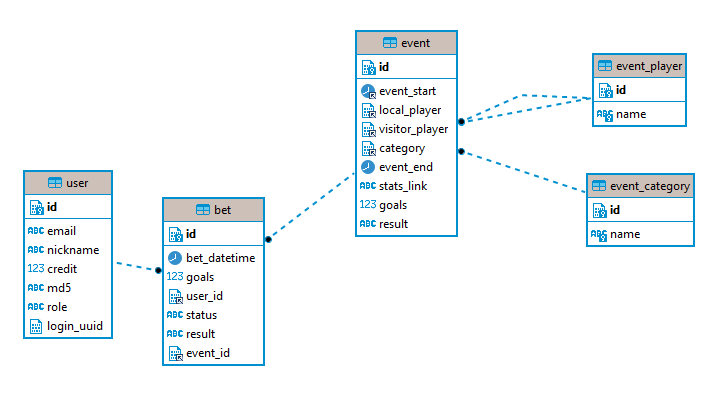
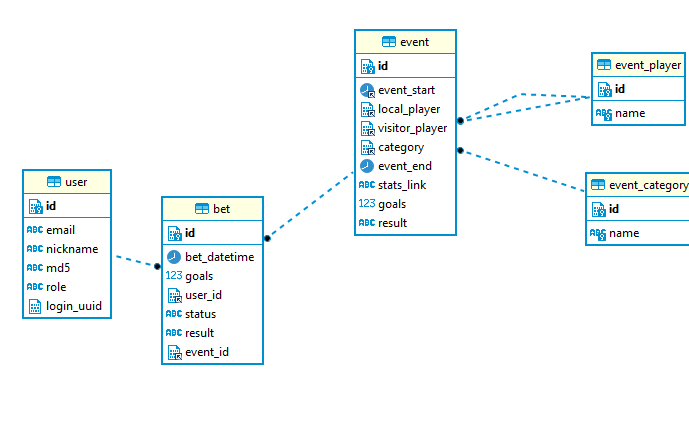
chao campo user/credit

diff --git a/backend/sportsbet_server/controllers/user_controller.py b/backend/sportsbet_server/controllers/user_controller.py
@@ -101,7 +101,6 @@ def update_user(user=None):
         user_schema = UserSchema()
         existing_user.email = user["email"]
         existing_user.nickname = user["nickname"]
-        existing_user.credit = user["credit"]
         existing_user.md5 = user["md5"]
         existing_user.role = user["role"]
         db.session.merge(existing_user)

diff --git a/backend/sportsbet_server/models.py b/backend/sportsbet_server/models.py
@@ -52,7 +52,6 @@ class User(db.Model):
     id = db.Column(UUID, primary_key=True, default=uuid.uuid1() )
     email = db.Column(db.String)
     nickname = db.Column(db.String)
-    credit = db.Column(db.Numeric)
     md5 = db.Column(db.String)
     role = db.Column(db.String)
     login_uuid = db.Column(UUID)

diff --git a/backend/sportsbet_server/controllers/bet_controller.py b/backend/sportsbet_server/controllers/bet_controller.py
@@ -43,3 +43,9 @@ def get_bet_by_id(id_):
         return make_response(data, 200)
     else:
         return make_response(404, f"Bet not found for id: {id_}")
+
+def get_bets():
+    all_bets = Bet.query.all()
+    bet_schema = BetSchema(many=True)
+    data = bet_schema.dump(all_bets)
+    return data
